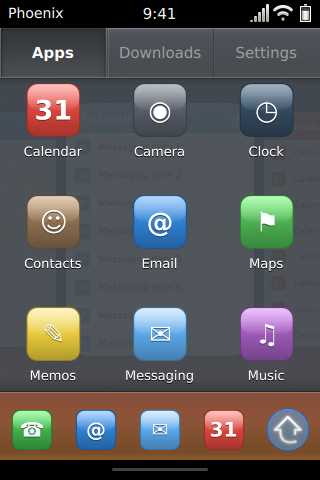
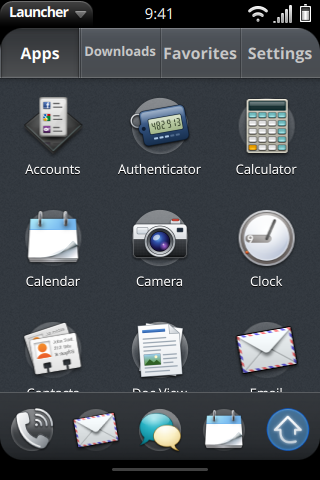
Docs: launcher pages and placement, launch points, installs, keep-alive
APP-RUNTIME.md: launch at boot and keep alive in the simulator; the
launcher's four pages, launcherTab 3, how new apps are placed (keyword
map, blacklist, the original's rules); launch points apps add; the
browser's Add to Launcher and its page pictures; the launcher's pending
icons and the rest of the installer and application manager. README:
--scene launcherinstall and tools/test-appmanager.cjs; the launcher
screenshot with Favorites. ROADMAP and STATUS: Add to Launcher is done.

Claude-Session: https://claude.ai/code/session_017wMo78ZM1BUvgkumj54dwe

diff --git a/docs/APP-RUNTIME.md b/docs/APP-RUNTIME.md
@@ -273,6 +273,27 @@ in that app's stack. Headless apps (`"noWindow": true` in `appinfo.json`, e.g.
 Calendar, Clock, Email) run their main page invisibly, and each window they
 open is a card, as on webOS.
 
+**Launch at boot and keep alive** (`SimWindowSource`, after luna.conf). At
+start-up the launch-at-boot apps start without a card, with the launch
+params `{"launchedAtBoot": true}` (Email and Calendar then open nothing:
+`Launch.js`, `App.handleLaunchParams`): phones Phone, Email, Calendar,
+Messaging and Camera (`conf/luna.conf` [LaunchAtBoot]), tablets the same
+without Camera (`luna-topaz.conf`); the original ids map to the Phoenix
+apps that replace them. A headless app keeps its page; any other keeps its
+window, ready, and its first launch shows it at once. Closing the last card
+of a keep-alive app keeps the app running without a card, and the next
+launch brings the same window back and relaunches it (the page gets the
+launch params, `webOSRelaunch` / `Mojo.relaunch`): phones keep Phone
+([KeepAlive]); tablets Email, Calendar, Messaging, Photos and Music
+(`luna-topaz.conf`); both keep the browser until memory runs low
+([KeepAliveUntilMemPressure]: when `MemoryMonitor` says low, it closes).
+A page can ask for its own window (`PalmSystem.keepAlive(true)`: Email's
+main card, Calendar's), as WebAppMgr's off-screen cache did. The angry card
+(thrown down off the screen) and a window the app closes itself end the app
+for good (`CardWindowManager::closeWindow` / `setDisableKeepAlive`).
+`--scene` and the tests build their own scenes and start no boot apps
+(`SimWindowSource.bootAppsEnabled`, which `sim.qml` turns on).
+
 **In a desktop browser.**
 
 ```sh
@@ -505,7 +526,19 @@ apps) or grey diamond (system apps), rendered by `tools/render-app-icons.cjs`
 }
 ```
 
-- `launcherTab`: 0 Apps (default), 1 Downloads, 2 Settings
+- `launcherTab`: 0 Apps, 1 Downloads, 2 Settings, 3 Favorites. Without
+  it the launcher places a new app as luna-sysmgr did
+  (`LauncherLayout.pageFor`): by its `category`, then its `keywords`,
+  through the keyword map (`conf/launcher3/app-keywords-to-designator-map.txt`,
+  which ships only a placeholder; Phoenix adds "settings" and "preferences"
+  for the Settings page); else the app catalog (the Marketplace) and apps
+  the user installed go to Downloads, a built-in app of category
+  "Settings" to Settings, the rest to Apps
+  (`pageIndexForAppByPredefinedDesignators`). Apps in
+  `conf/launcher3/app_blacklist.conf` (`com.palm.sysapp.launchermode0`)
+  never show. The launcher's pages are Apps, Downloads, Favorites and
+  Settings, as on the TouchPad; a layout saved before Favorites keeps its
+  three pages.
 - `hidden`: leave the app itself out of the launcher (its launch points stay)
 - `quickLaunch`: put the app in this quick launch slot (1-4); Phone is 1 and
   Messaging 3 (Email 2 and Calendar 4 are set by title in `SimWindowSource`)
@@ -513,6 +546,15 @@ apps) or grey diamond (system apps), rendered by `tools/render-app-icons.cjs`
   card and starts the app with `params` as its launch params
   (`PalmSystem.launchParams`, `?launchParams=` on the page URL). A web app
   whose title matches a placeholder (Wi-Fi, Bluetooth, ...) replaces it.
+
+An app can also add launch points of its own at run time, as on webOS
+(`applicationManager/addLaunchPoint {id, title, icon, params, removable}`
+-> `{launchPointId}`, eight digits; `removeLaunchPoint {launchPointId}`).
+They go on the launcher's Favorites page (`slotAppAuxiliaryIconAdd`), have
+the (–) remove decorator in edit mode ("Remove Shortcut?"), and survive
+restarts: phoenix-sim keeps each as `/var/luna/launchpoints/<id>` in its
+data folder, as LunaSysMgr did. The browser's Share > Add to Launcher makes
+one (see [The browser](#the-browser-and-enyowebview)).
 
 On OSE, the same launch points are registered with SAM
 (`com.webos.applicationManager/addLaunchPoint`), and launch params arrive the
@@ -770,6 +812,18 @@ engines behind them:
 - **A desktop browser** (`tools/serve-rootfs.py`, the Playwright tests): an
   `<iframe>`, so only sites that allow framing show, and only same-origin
   pages report their titles.
+
+Share > Add to Launcher works as on webOS: the plugin's
+`saveViewToFile`, `generateIconFromFile` and `resizeImage` make the page's
+thumbnail and a 64 px icon in `/var/luna/data/browser/icons/`
+(phoenix-sim's `SimSnapshots`: the shell takes a picture of the page's
+Chromium view; the icon is the top of the page in a rounded frame, since
+BrowserServer's own art was never released), the dialog shows it, and Add
+to Launcher calls `applicationManager/addLaunchPoint` with the page's
+address: a launcher icon on Favorites that opens the page in its own
+card. The calls return at once, as the plugin's did; a picture still being
+made is served when it is ready. In a desktop browser the page is an
+`<iframe>`, so there is no picture and the shortcut gets the browser's icon.
 
 Links for other apps (`mailto:`, `tel:`, `sms:`) go to them through
 `/usr/palm/command-resource-handlers.json` (a compat file), as the
@@ -1528,6 +1582,42 @@ The back gesture goes back in the site's history first. Android cards will
 get the same menu ([ANDROID.md](ANDROID.md)). A built-in
 app's id cannot be installed over. `build/siminstaller-test` tests
 SimInstaller.
+
+**In the launcher, as it goes.** Whoever installs tells the shell
+(`runtime.installStatus`, an `installStatus` host message: state,
+progress, title, icon, the reason of a failure, how to try again): the
+Marketplace from its first download step (`deps.pending` of the packages
+service), the installer as it reads and installs the package. An app not
+installed yet gets a pending icon of its own (on Downloads), faded to half
+with a 32 px progress badge, a frame of `loading-strip.png` per 1/19 of the
+progress; a failed one shows `warning-icon.png` (LunaSysMgr's install
+status decorators, `iconheap.cpp:44-51`, at 50 px right of and above the
+cell's centre on tablets). A tap on it does not launch it: while it
+installs it opens the app's page in the Marketplace, as webOS sent such
+launches to Software Manager; after a failure it asks "Installation
+Failed", with Try Again (the same install again: the Marketplace's, or the
+installer's with the same file) and Remove. `phoenix-sim --scene
+launcherinstall` shows both.
+
+**The rest of the installer and the application manager** (luna-sysmgr's
+`ApplicationInstaller.cpp`, `ApplicationManagerService.cpp`; the host's
+part through `runtime.hostOp`, phoenix-sim's `SimWindowSource` or
+`tools/serve-rootfs.py`; `tools/test-appmanager.cjs` tests them):
+
+| Method | What it does here |
+| --- | --- |
+| `com.palm.appinstaller/notifyOnChange {appId?}` | `{appId, version, statusChange: "INSTALLED" \| "REMOVED", cause: "USER" \| "REVOKED"}` for one app or all (`*`) |
+| `installProgressQuery {appId, subscribe?}` | `{state, progress, title, reason}` of a pending install (LunaSysMgr never answered it) |
+| `queryInstallCapacity {appId \| packageId, size, uncompressedSize}` | `{result (1 download, 2 install space short), spaceNeededInKB}`, against the free space where apps go |
+| `getUserInstalledAppSizes` | `{apps: [{appName, size (KB)}], totalSize}` |
+| `revoke {item: '{"payload": {signature, appId: [...]}}'}` | removes the apps (cause REVOKED) when a trusted Marketplace catalog's Ed25519 key signed their ids; else `verify failed` |
+| `com.palm.applicationManager/addLaunchPoint`, `removeLaunchPoint` | above |
+| `running`, `close {processId}` | the apps with cards, headless or kept alive, with process ids; close ends one for good |
+| `install {target}`, `rescan` | install a package file; read the apps again |
+| `getSizeOfApps {appIds}` | `{<appId>: bytes}` |
+| `listPendingLaunchPoints` | the apps being installed |
+| `listDockModeLaunchPoints`, `addDockModeLaunchPoint`, `removeDockModeLaunchPoint`, `listDockPoints` | apps with `"exhibitionMode"` (or `"dockMode"`) in `appinfo.json`, enabled by default as `conf/default-exhibition-apps.json` (Photos); data only until dock mode comes |
+| `addResourceHandler`, `swapResourceHandler`, `addRedirectHandler`, `swapRedirectHandler`, `removeHandlersForAppId`, `listAllHandlersForMime` / `ForUrl`, `getHandlerForUrl` / `ForExtension`, `mimeTypeForExtension`, `listResourceHandlers`, `listRedirectHandlers`, `listExtensionMap` | the handler registry: the apps' `mimeTypes`, the built-in handlers and `command-resource-handlers.json`, plus those apps add (kept in the shared store, indexes from 1000); the first for a type or pattern is active until swapped |
 
 ### Developer Mode
 

diff --git a/README.md b/README.md
@@ -289,10 +289,11 @@ shutdown sounds (so do `--screenshot` and the offscreen platform).
 `--launch com.palm.app.notes` opens an app at start-up (repeatable);
 `--launch org.webosphoenix.settings.wifi` opens a Settings pane.
 
-`--scene locked|cards|stacks|reorder|maximized|heldcard|launcher|dashboard|justtype|keyboard|systemmenu|pin|emergency|firstuse` opens
+`--scene locked|cards|stacks|reorder|maximized|heldcard|launcher|launcherinstall|dashboard|justtype|keyboard|systemmenu|pin|emergency|firstuse` opens
 a demo state (`keyboard`: Just Type with the virtual keyboard up; `heldcard`: a card that keeps the upright orientation, drawn
 turned in card view with `--orientation left`; `emergency`: the PIN pad's
-Emergency Call; `firstuse`: First Use); add `--screenshot out.png`
+Emergency Call; `firstuse`: First Use; `launcherinstall`: the launcher's
+Downloads page with an app being installed and one whose install failed); add `--screenshot out.png`
 to save a PNG and exit.
 
 **First Use** runs at start-up, as on a new device, until it has been
@@ -326,6 +327,7 @@ node tools/test-firstuse.cjs                                # First Use, every s
 node tools/test-help.cjs                                    # Help, and Just Type finding it
 node tools/test-emergency.cjs                               # Emergency Info, restricted Phone, Accessibility
 node tools/test-location.cjs                                # Location Services and permissions
+node tools/test-appmanager.cjs                              # launch points apps add, handlers, the installer's queries
 ```
 
 ## Build a webOS OSE image (experimental)

diff --git a/docs/STATUS.md b/docs/STATUS.md
@@ -102,9 +102,7 @@ The whole plan, milestone by milestone, with the decisions taken so far:
   screen reader, magnification, health,
   cell broadcast, eSIM, printing, screen recording, fingerprint, notes
   sync, a now-playing dashboard, and the "not done" lists of each new app.
-- **Browser**: fix Share > Add to Launcher (the runtime's `addLaunchPoint`
-  is a stub, and the dialog has no icon because the old browser's native
-  snapshot plugin is missing); add "Install Web App" for sites with a web
+- **Browser**: add "Install Web App" for sites with a web
   app manifest (a coloured dot by the app menu, the item under
   Preferences; install as described in [APP-STORE.md](APP-STORE.md)); plan a
   Chromium-based Phoenix browser to replace the Isis browser in the 2.0 UI.

diff --git a/docs/ROADMAP.md b/docs/ROADMAP.md
@@ -212,8 +212,10 @@ Done in the simulator:
 
 Still to do:
 
-- [ ] Browser: Share > Add to Launcher that saves a launcher icon you can
-      change, as webOS did (today the runtime's `addLaunchPoint` is a stub)
+- [x] Browser: Share > Add to Launcher that saves a launcher icon you can
+      change, as webOS did: a picture of the page as its icon, the title
+      editable in the dialog, on the launcher's Favorites page
+      ([APP-RUNTIME.md](APP-RUNTIME.md#the-browser-and-enyowebview))
 - [ ] Browser: "Install Web App" under Preferences, with a coloured dot by the
       app menu when the page has a web app manifest ([APP-STORE.md](APP-STORE.md) section 1)
 - [ ] Modern Synergy, in the order of [SYNERGY-MODERN.md](SYNERGY-MODERN.md#5-roadmap):
